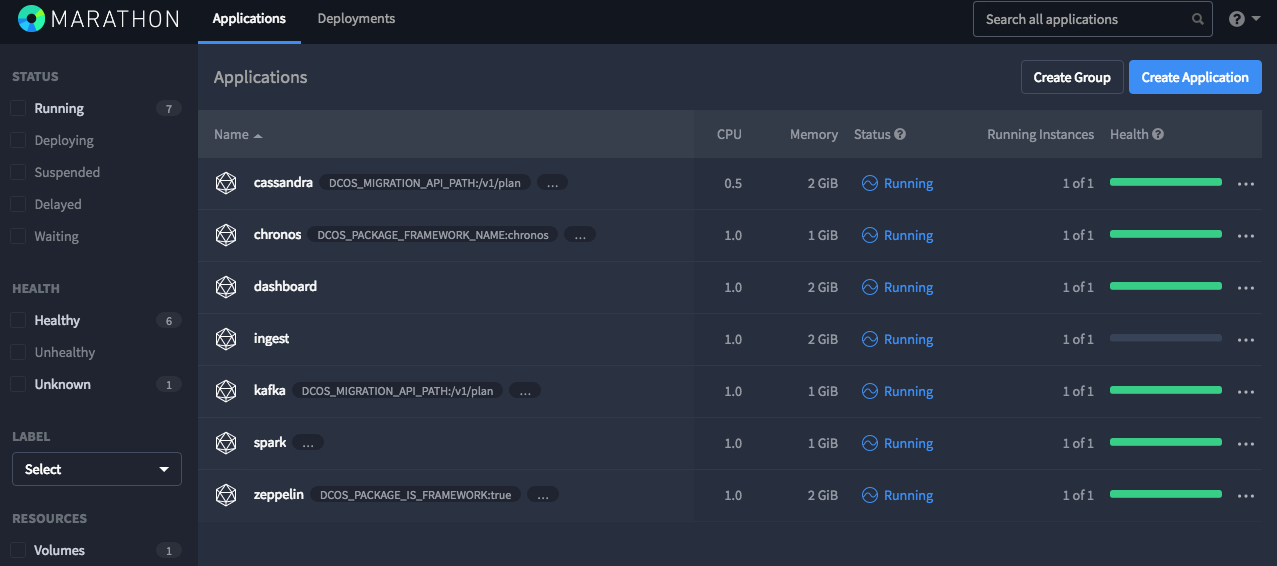
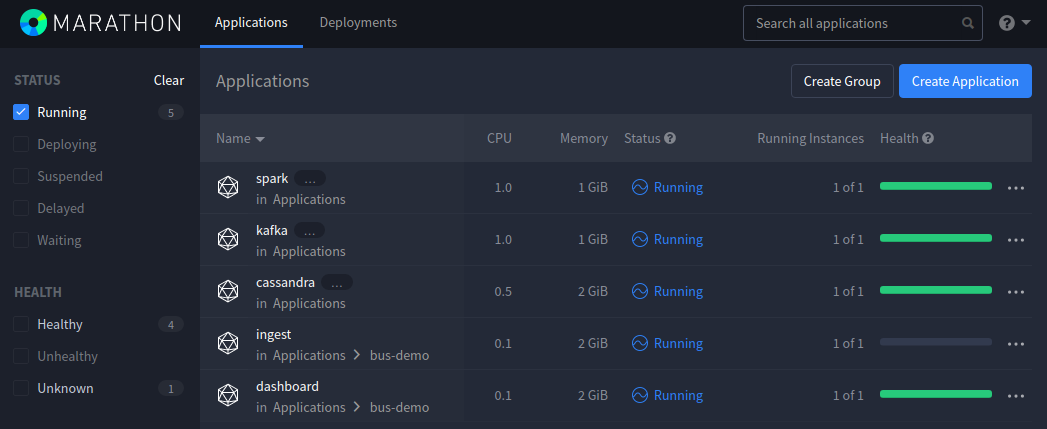
Make 1.9 updates and improvements to fastdata-iot
Add a link to the code repository where the Docker Hub images get their code.

Update all references to 1.8 to be 1.9.

Add import_data.sh file to a new bus-demo directory from the Docker image and a
related README.md so it's more clear what we're running to configure Cassandra.

Update inline JSON and Spark job command to use the Cassandra vip.

Update akka-ingest and dashboard .json files so they're the same as what's in
the README.md.

Update JSON screenshot so it matches our code, and new Marathon screenshot.

diff --git a/fastdata-iot/1.9/README.md b/fastdata-iot/1.9/README.md
@@ -1,10 +1,14 @@
 # Iot Fast Data analytics
 
-or how to run the SMACK stack on DC/OS with a stream of data.  
+Or how to run the SMACK stack on DC/OS with a stream of data.
 Details about this showcase can be found in the following blog posts: 
  
  - [Iot Analytics Platform](https://blog.codecentric.de/en/2016/07/iot-analytics-platform/)
  - [SMACK Stack - DC/OS Style](https://blog.codecentric.de/en/2016/08/smack-stack-dcos-style/)
+
+Code used in this demo can be found in the following code repository:
+
+ - [github.com/ANierbeck/BusFloatingData](https://github.com/ANierbeck/BusFloatingData)
 
 In short, with this showcase you'll receive live data from the Los Angeles METRO API. 
 The data is streamed to Apache Kafka and consumed by Apache Spark and an Akka application. 
@@ -36,9 +40,9 @@ or Kafka via the Akka backendsystem.
 
 ## Prerequisites
 
-- A running [DC/OS 1.8.8](https://dcos.io/releases/1.8.8/) or higher cluster with at least 4 private agents and 1 public agent each with 2 CPUs and 5 GB of RAM available as well as the [DC/OS CLI](https://dcos.io/docs/1.8/usage/cli/install/) installed in version 0.14 or higher.
+- A running [DC/OS 1.9](https://dcos.io/releases/1.9.0/) or higher cluster with at least 4 private agents and 1 public agent each with 2 CPUs and 5 GB of RAM available as well as the [DC/OS CLI](https://dcos.io/docs/1.9/usage/cli/install/) installed in version 0.14 or higher.
 - The JSON query util [jq](https://github.com/stedolan/jq/wiki/Installation) must be installed.
-- [SSH](https://dcos.io/docs/1.8/administration/access-node/sshcluster/) cluster access must be set up.
+- [SSH](https://dcos.io/docs/1.9/administration/access-node/sshcluster/) cluster access must be set up.
 - The [dcos/demo](https://github.com/dcos/demos/) Git repo must be available locally, use: `git clone https://github.com/dcos/demos.git` if you haven't done so, yet.
 
 ## Install
@@ -65,8 +69,9 @@ Make sure the cassandra is fully functional check it with the dcos cassandra com
 dcos cassandra connection
 ```
 
-The setup of the required cassandra schema is done via an [Jobs](https://docs.mesosphere.com/1.8/usage/jobs/getting-started/) job. 
-With the jobs frontend you're able to use the following configuration. 
+The setup of the required cassandra schema is done via an [Jobs](https://dcos.io/docs/1.9/deploying-jobs/quickstart/) job. 
+
+With the jobs frontend you're able to use the following configuration which will pull down a simple Docker Hub image with code from the [BusFloatingData](https://github.com/ANierbeck/BusFloatingData) repository and the [import_data.sh](bus-demo/import_data.sh) script.
 
 ```json
 {
@@ -131,7 +136,7 @@ Using the frontend
     }
   },
   "env": {
-    "CASSANDRA_CONNECT": "node-0.cassandra.mesos:9042",
+    "CASSANDRA_CONNECT": "node.cassandra.l4lb.thisdcos.directory:9042",
     "KAFKA_CONNECT": "broker.kafka.l4lb.thisdcos.directory:9092"
   }
 }
@@ -169,7 +174,7 @@ The digestional part of the application is done via Spark jobs. To run those job
 dcos cli.   
 
 ```bash
-dcos spark run --submit-args='--driver-cores 0.1 --driver-memory 1024M --total-executor-cores 4 --class de.nierbeck.floating.data.stream.spark.KafkaToCassandraSparkApp https://oss.sonatype.org/content/repositories/snapshots/de/nierbeck/floating/data/spark-digest_2.11/0.2.1-SNAPSHOT/spark-digest_2.11-0.2.1-SNAPSHOT-assembly.jar METRO-Vehicles node-0.cassandra.mesos:9042 broker-0.kafka.mesos:9092'
+dcos spark run --submit-args='--driver-cores 0.1 --driver-memory 1024M --total-executor-cores 4 --class de.nierbeck.floating.data.stream.spark.KafkaToCassandraSparkApp https://oss.sonatype.org/content/repositories/snapshots/de/nierbeck/floating/data/spark-digest_2.11/0.2.1-SNAPSHOT/spark-digest_2.11-0.2.1-SNAPSHOT-assembly.jar METRO-Vehicles node.cassandra.l4lb.thisdcos.directory:9042 broker.kafka.l4lb.thisdcos.directory:9092'
 ```
 
 Again here make sure you have the proper connection string for Kafka and Cassandra. 
@@ -205,11 +210,8 @@ Either install it via the DC/OS UI by creating a new marathon app:
     "slave_public"
   ],
   "env": {
-      "CASSANDRA_CONNECT": "node-0.cassandra.mesos:9042",
+      "CASSANDRA_CONNECT": "node.cassandra.l4lb.thisdcos.directory:9042",
       "KAFKA_CONNECT": "broker.kafka.l4lb.thisdcos.directory:9092"
-  },
-  "upgradeStrategy": {
-    "minimumHealthCapacity": 0
   },
   "dependencies": ["/bus-demo/ingest"],
   "healthChecks": [

diff --git a/fastdata-iot/1.9/bus-demo/README.md b/fastdata-iot/1.9/bus-demo/README.md
@@ -1,0 +1,3 @@
+The create_tables.cql file used in import_data.sh comes from the
+https://github.com/ANierbeck/BusFloatingData repository and is included in the
+Docker Hub image we're pulling in.
